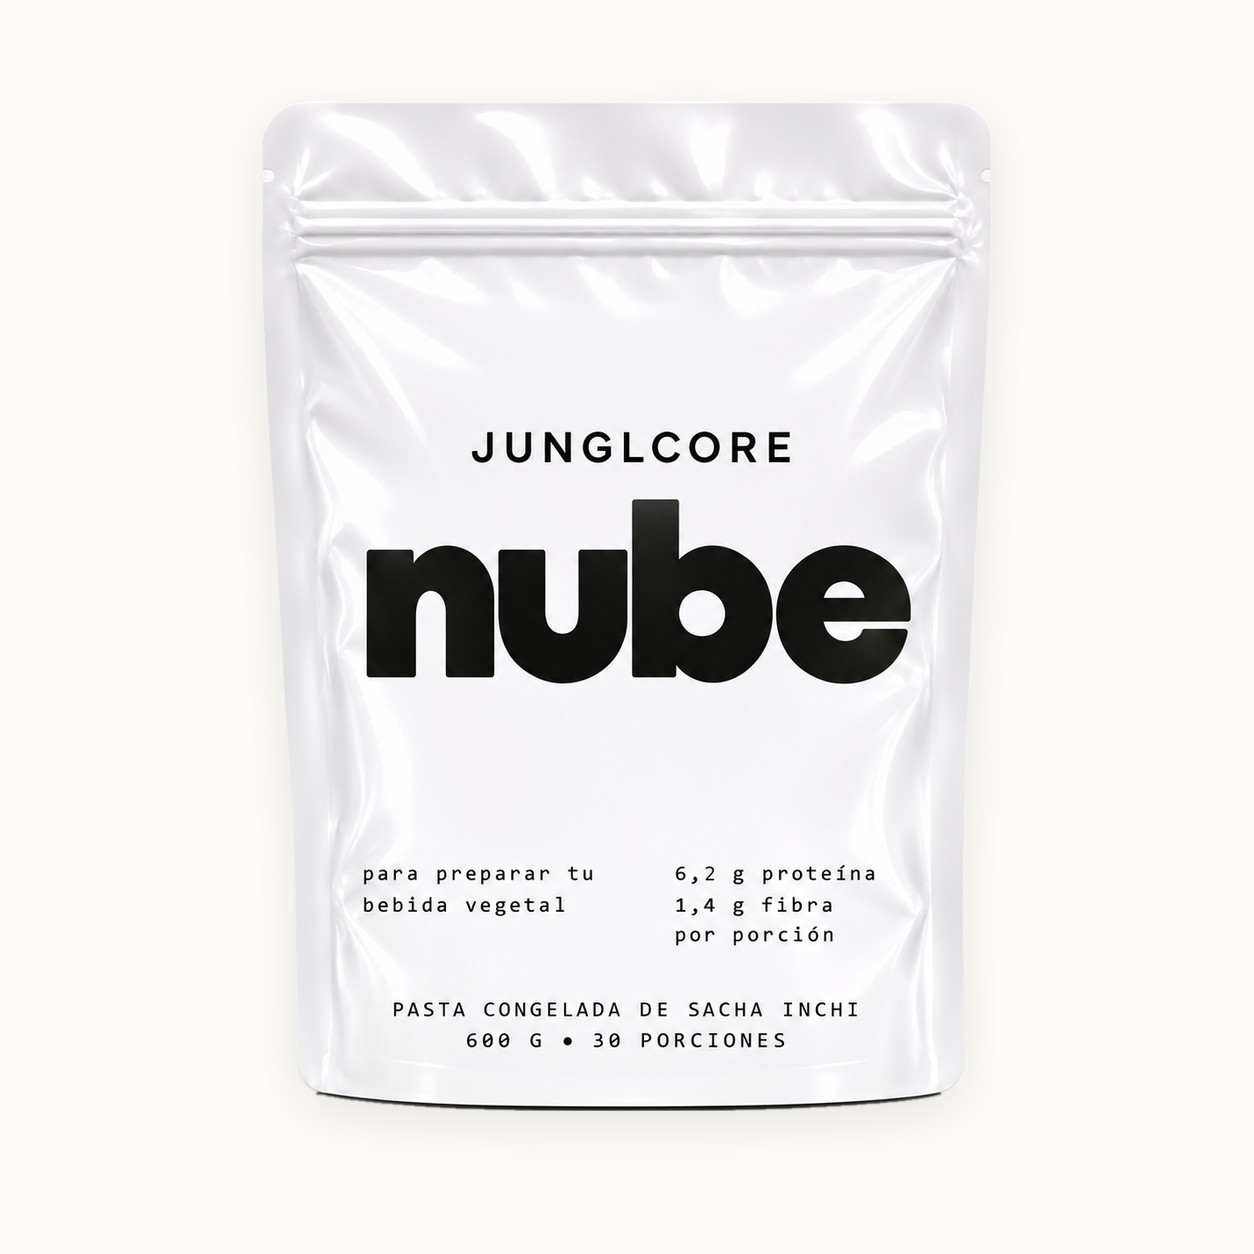
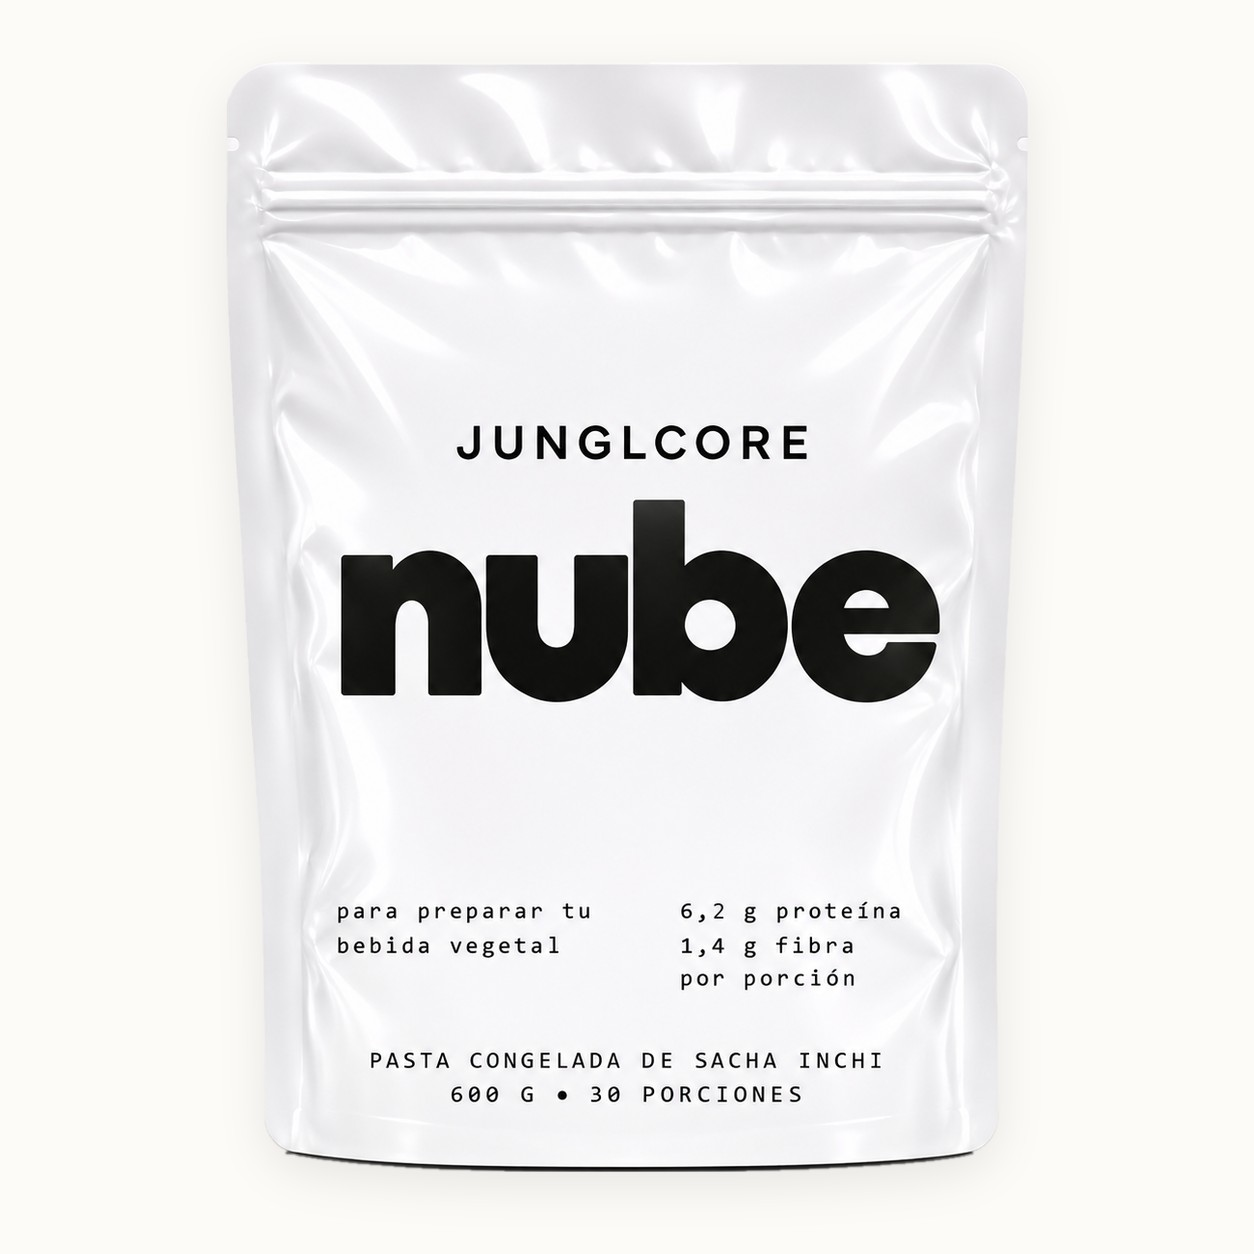
Bolsa más grande y vaivén más rápido
Claude-Session: https://claude.ai/code/session_01NMe321R5xgtq7wWCRNWanC

diff --git a/assets/jc-shop.css b/assets/jc-shop.css
@@ -1361,7 +1361,7 @@ a.jcs-invest__box:hover { background: #e9e1d4; }
 .jcs-buy__wa.jcs-buy__wa--quiet { display: inline-block; border: 0; padding: 0; min-height: 0; margin-top: 10px; background: none; font-size: 13px; font-weight: 400; letter-spacing: 0; text-transform: none; text-decoration: underline; text-underline-offset: 3px; color: var(--ink); }
 .jcs-buy__wa.jcs-buy__wa--quiet:hover { background: none; color: var(--ink); opacity: .7; }
 /* Bolsa que flota (todas) y que se queda fija hasta «¿Cuántas te pasan?» (solo escritorio) */
-@keyframes jcs-pack-float { 0%, 100% { transform: translateX(-7px) rotate(-1.2deg); } 50% { transform: translateX(7px) rotate(1.2deg); } }
-.jcs-shop__visual img.jcs-pack-photo { animation: jcs-pack-float 6.5s ease-in-out infinite; transform-origin: 50% 30%; will-change: transform; }
+@keyframes jcs-pack-float { 0%, 100% { transform: translateX(-9px) rotate(-1.5deg); } 50% { transform: translateX(9px) rotate(1.5deg); } }
+.jcs-shop__visual img.jcs-pack-photo { animation: jcs-pack-float 4.2s ease-in-out infinite; transform-origin: 50% 50%; will-change: transform; }
 @media (prefers-reduced-motion: reduce) { .jcs-shop__visual img.jcs-pack-photo { animation: none; } }
 @media (min-width: 900px) { #jc-buy .jcs-shop__grid > div:first-child { align-self: stretch; } #jc-buy .jcs-shop__visual { position: sticky; top: 96px; } }
